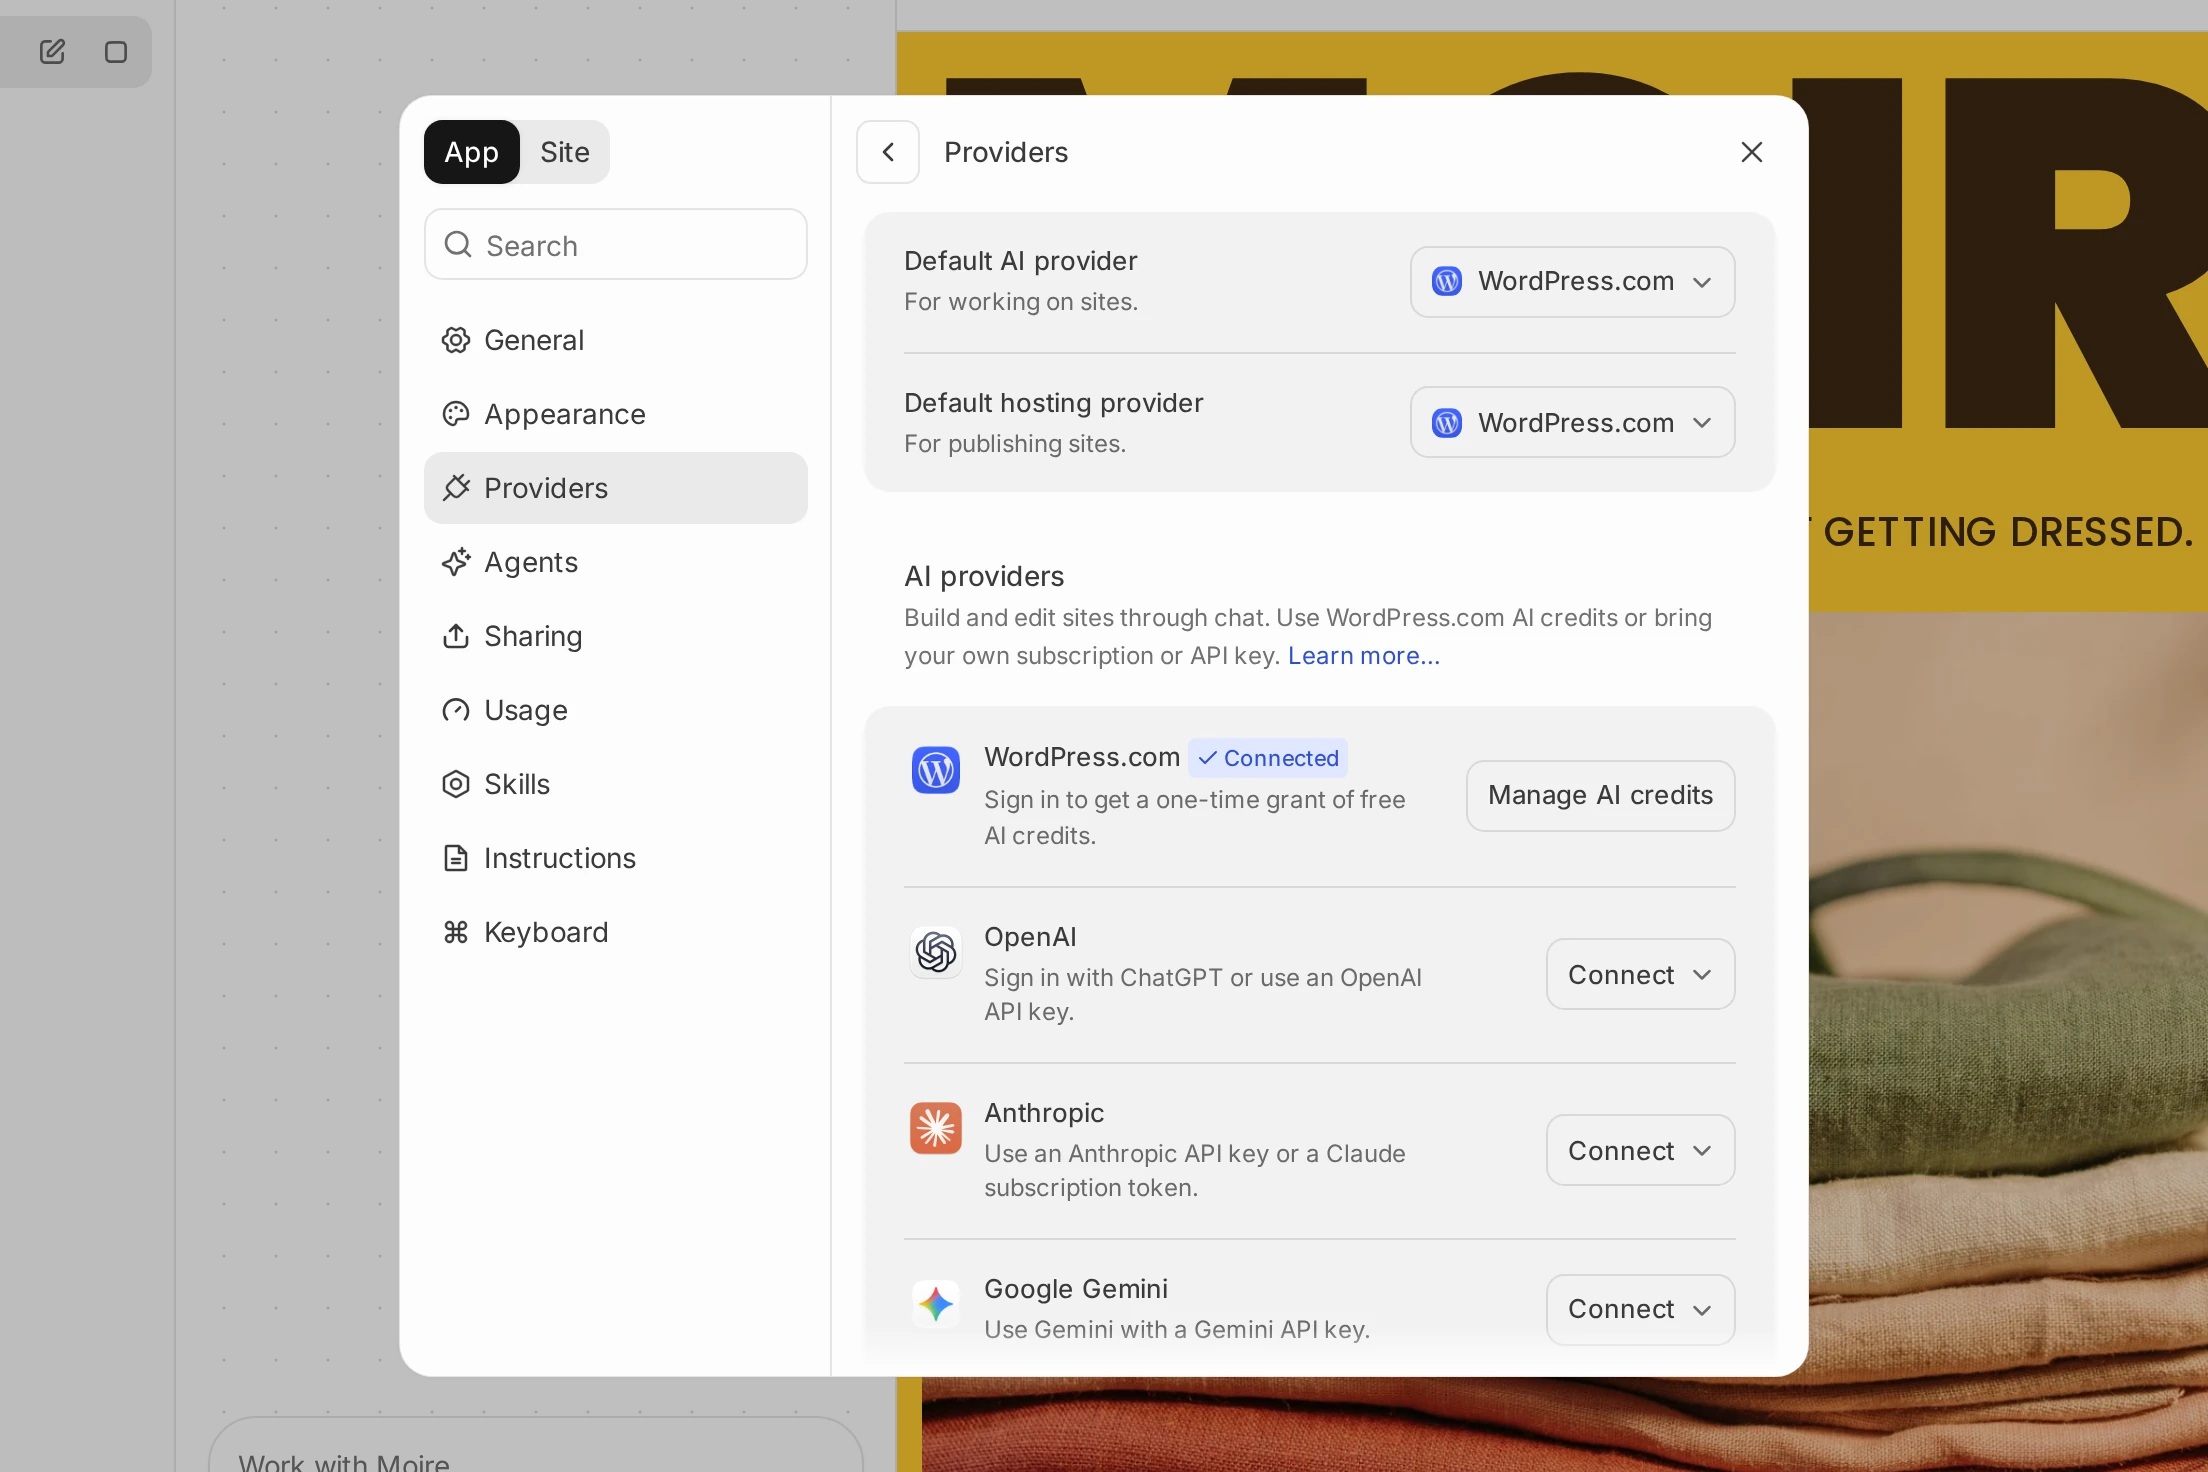
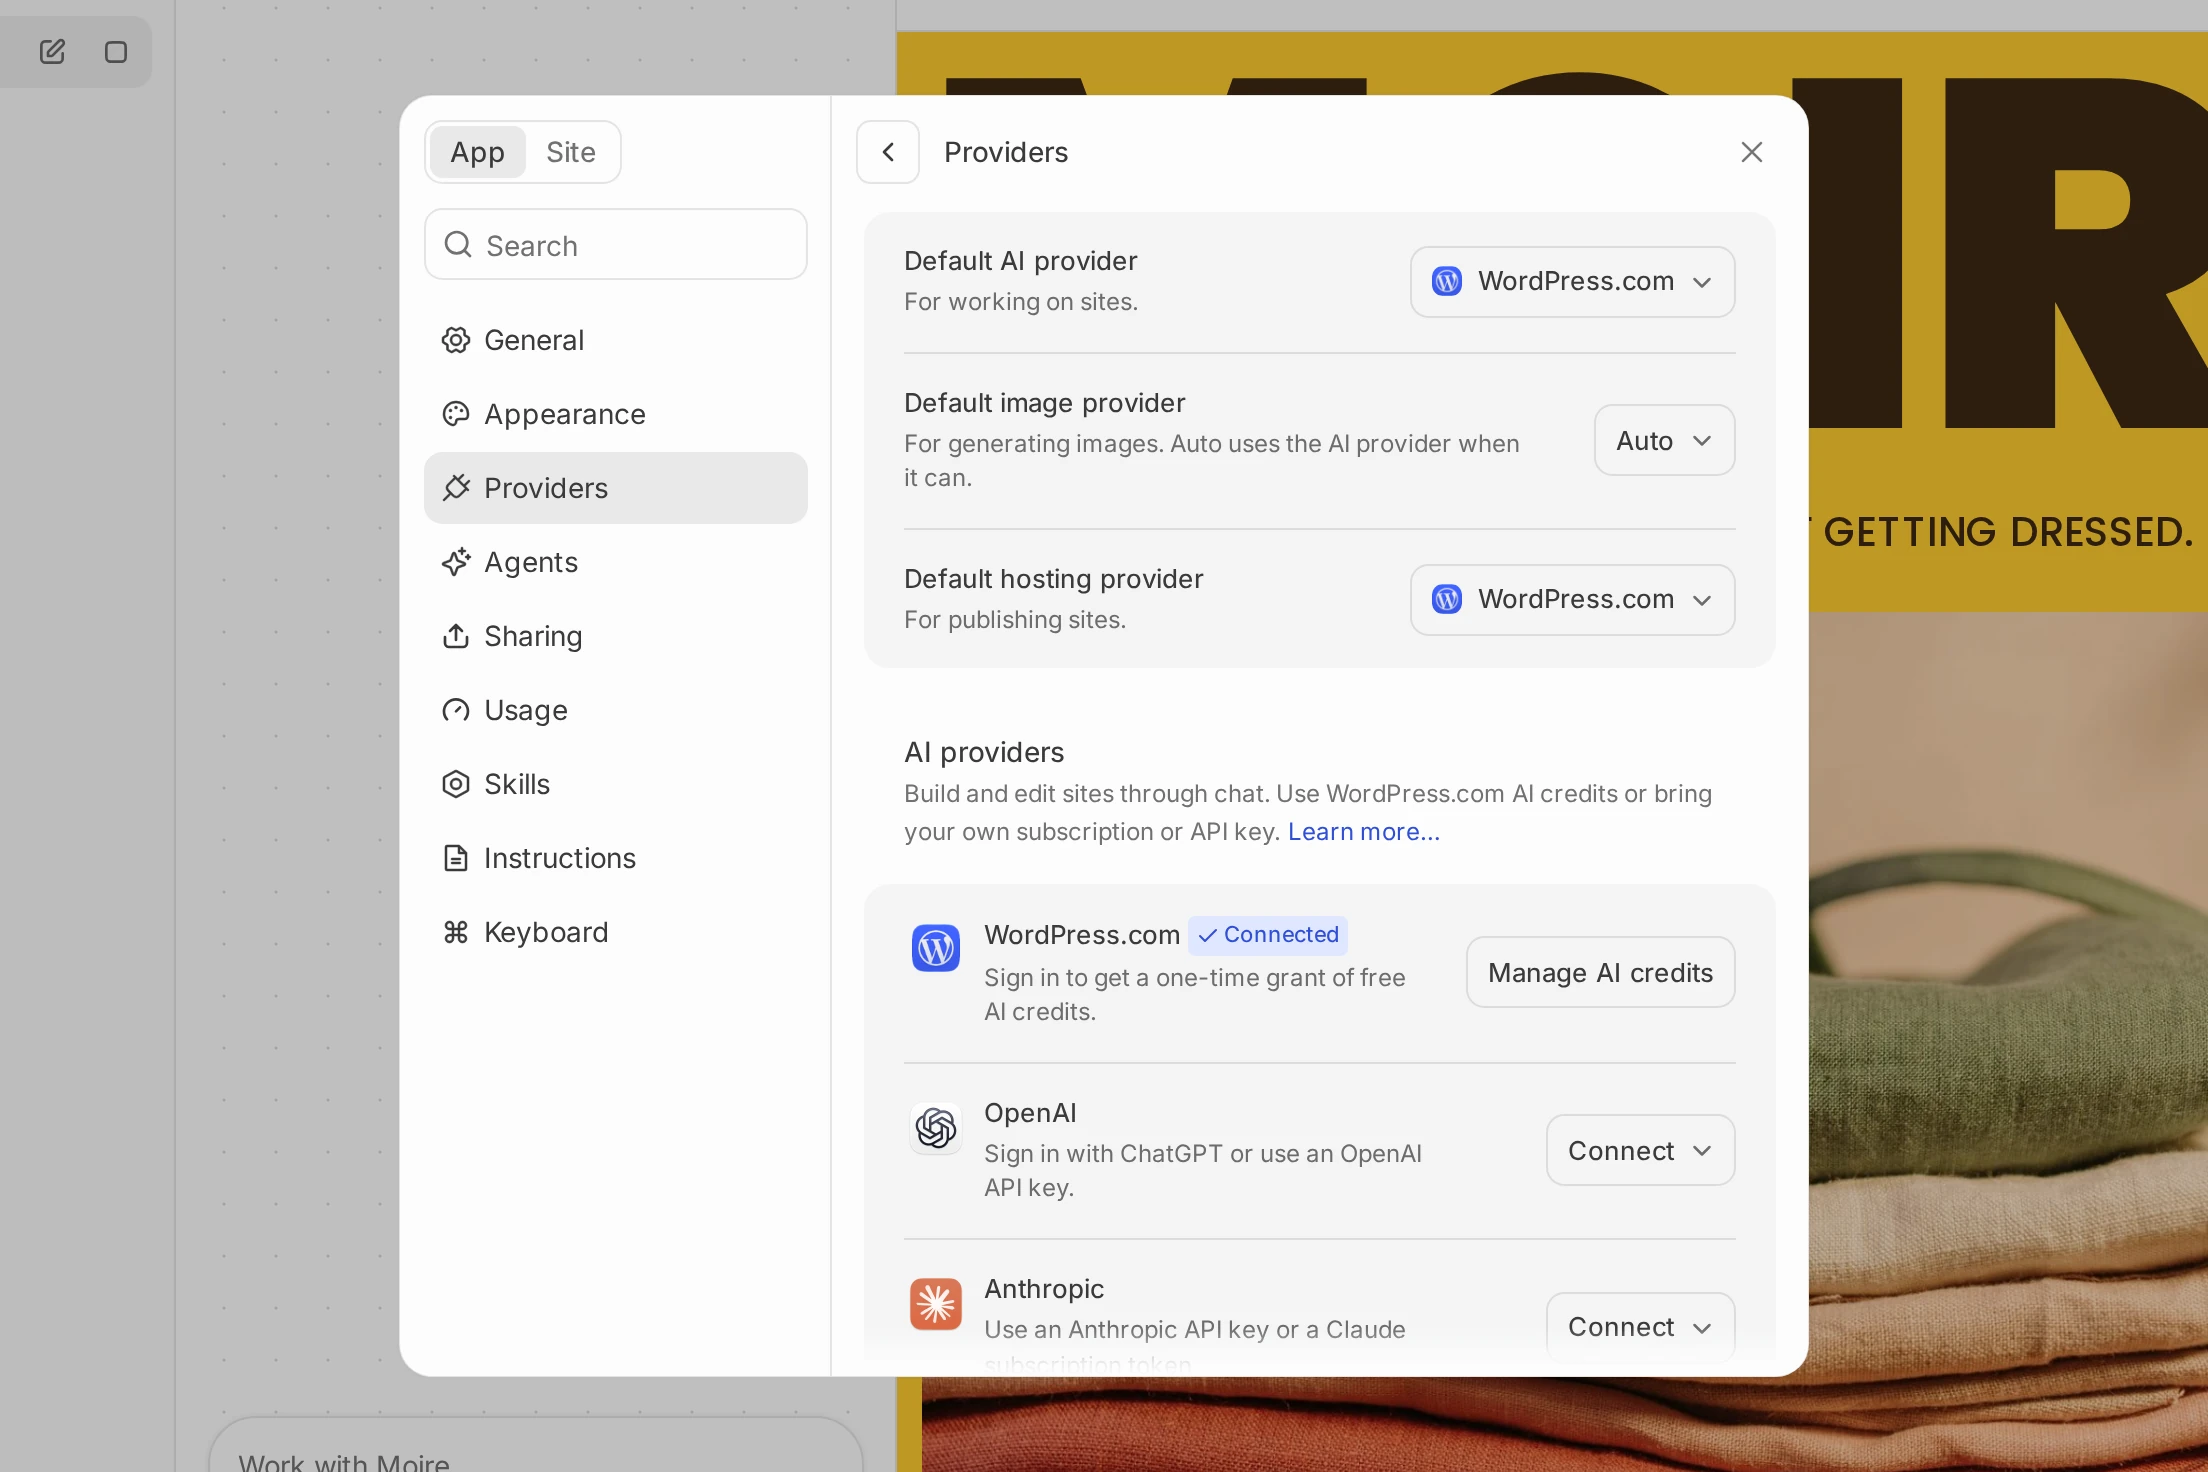
Docs: add xAI and Local LLM connect shots and recapture the Providers page

diff --git a/docs/user/docs/developer-tools/studio/providers.md b/docs/user/docs/developer-tools/studio/providers.md
@@ -14,7 +14,7 @@ Two shortcuts lead to the same page. Choose **Providers** from the account menu,
 
 The page has three groups. Your defaults are at the top: **Default AI provider**, **Default image provider**, and **Default hosting provider**. Below them are **AI providers**, then **Hosting providers**. A provider you have set up is marked **Connected**.
 
-![The Providers page of WordPress Studio's Settings: Default AI provider, Default image provider, and Default hosting provider at the top, then AI providers, with WordPress.com marked Connected and a Manage AI credits button, and OpenAI, Anthropic, Google Gemini, GitHub Copilot, Meta, xAI, OpenRouter, and Local LLM with Connect buttons.](../../../screenshots/images/settings-ai-providers-signed-in.webp)
+![The Providers page of WordPress Studio's Settings: Default AI provider, Default image provider, and Default hosting provider at the top, then AI providers, with WordPress.com marked Connected and a Manage AI credits button, and OpenAI and Anthropic with Connect buttons.](../../../screenshots/images/settings-ai-providers-signed-in.webp)
 
 WordPress Studio UI, which you start with `studio ui`, has the same page. In the terminal you use commands instead. See [Providers in the terminal](https://wordpress.studio/docs/providers/#providers-in-the-terminal).
 
@@ -124,6 +124,8 @@ To use an API key:
 
 xAI bills your account for what you use. Both ways can [make images](https://wordpress.studio/docs/studio-code/image-generation/).
 
+![The xAI row on the Providers page of WordPress Studio's Settings, with its Connect menu open on Sign in with Grok and API key.](../../../screenshots/images/settings-provider-xai.webp)
+
 ### OpenRouter
 
 OpenRouter offers models from many AI companies, paid with your OpenRouter credits.
@@ -149,6 +151,8 @@ Local LLM uses the models a server you run serves, such as [Ollama](https://olla
 2.  Click **Connect** next to **Local LLM**.
 3.  In **Server address**, enter the address the server listens on, such as `http://localhost:11434`. Fill in **API key** only if your server asks for one.
 4.  Click **Save**.
+
+![The Local LLM row on the Providers page of WordPress Studio's Settings, open on How to connect, with the Server address field showing http://localhost:11434, an API key field, and Save and Cancel buttons.](../../../screenshots/images/settings-provider-local-llm.webp)
 
 The model menu offers your server’s chat models, those that can use tools first. To offer fewer models, pick them in **Local LLM models** under **Local LLM** on this page. Chats with a local model don’t need a WordPress.com account and keep working offline. If the model runs with too small a context, the chat says so: raise the context length in your server’s settings. WordPress Studio connects to one server at a time. To switch, connect again with the other address.
 

diff --git a/docs/user/docs/developer-tools/studio/studio-code/index.md b/docs/user/docs/developer-tools/studio/studio-code/index.md
@@ -166,7 +166,7 @@ With another provider, the model menu lists that provider’s models by name ins
 - **OpenRouter**, with an OpenRouter sign-in or an API key
 - **Local LLM**, with a model server you run, such as Ollama or LM Studio
 
-![The Providers page of WordPress Studio's Settings: Default AI provider, Default image provider, and Default hosting provider at the top, then AI providers, with WordPress.com marked Connected and a Manage AI credits button, and OpenAI, Anthropic, Google Gemini, GitHub Copilot, Meta, xAI, OpenRouter, and Local LLM with Connect buttons.](../../../../screenshots/images/settings-ai-providers-signed-in.webp)
+![The Providers page of WordPress Studio's Settings: Default AI provider, Default image provider, and Default hosting provider at the top, then AI providers, with WordPress.com marked Connected and a Manage AI credits button, and OpenAI and Anthropic with Connect buttons.](../../../../screenshots/images/settings-ai-providers-signed-in.webp)
 
 Set them up in **Settings → Providers** in the desktop app, or with `/connect` in the terminal. [Providers in WordPress Studio](https://wordpress.studio/docs/providers/) has the steps for each one, including [your own Anthropic API key](https://wordpress.studio/docs/providers/#anthropic), the models each offers, and who bills you.
 

diff --git a/docs/user/docs/developer-tools/studio/sync.md b/docs/user/docs/developer-tools/studio/sync.md
@@ -63,7 +63,7 @@ To add a WordPress site that’s already on your computer instead, see [Add a ne
 
 1.  In the sidebar, select the local site.
 2.  Click **Publish** at the top right of the site preview.
-3.  If you aren’t logged in, click **Connect to publish** and [log in to WordPress.com](https://wordpress.studio/docs/#connect-to-wordpresscom).
+3.  If you aren’t logged in, [log in to WordPress.com](https://wordpress.studio/docs/#connect-to-wordpresscom).
 4.  Choose **Connect to an existing site**. On a site you haven’t published or shared yet, it’s an option of **Destination**. Otherwise, it’s at the bottom of the panel.
 5.  In the **Choose an existing site** list, click the website.
 
